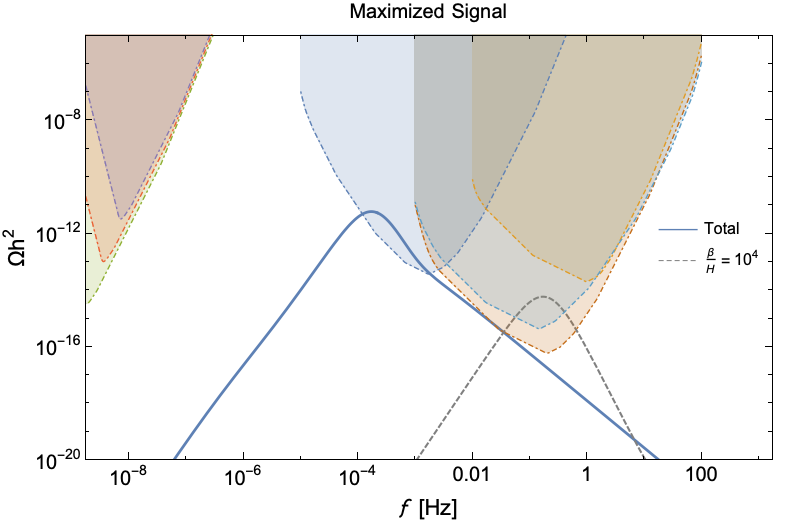
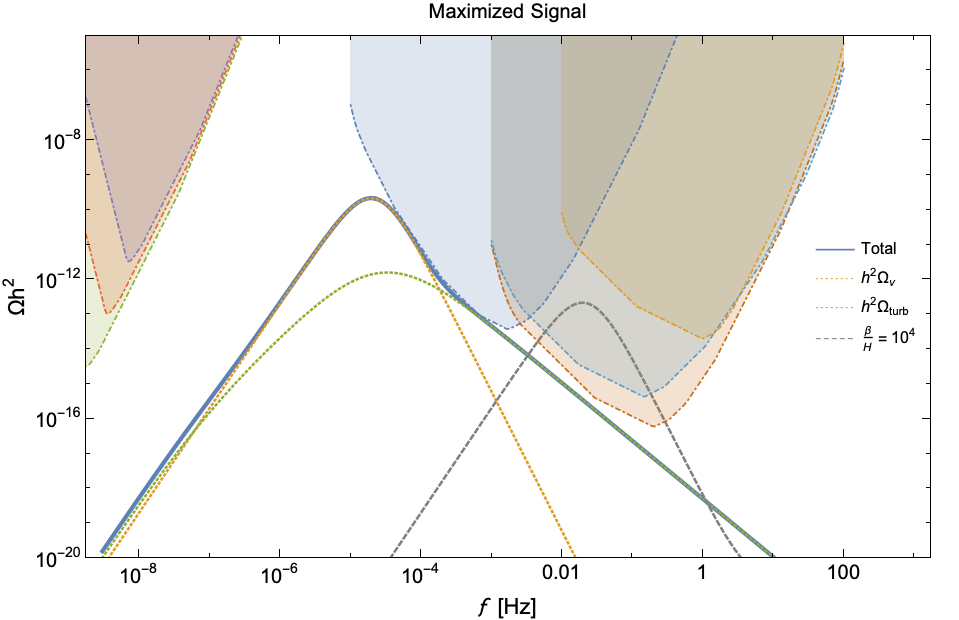
new max plot

diff --git a/gwnnDraft02.tex b/gwnnDraft02.tex
@@ -659,7 +659,7 @@ h^2\Omega_{\textrm{GW}} \approx  h^2\Omega_{v} + h^2\Omega_{turb}.
 \includegraphics[width=.45\textwidth]{FiveSW.png} 
 \end{minipage}
 \hfill
-\caption{ Gravitational wave spectral energy density for the various scenarios found in Tab.~(\ref{tab:cases}).  All contributions are assumed to be from a non-runaway phase transition with terminal velocity $v = 0.95$. The colored solid lines use $\beta/H  = 10$ where as the dashed gray line is the total contribution of all sectors for $\beta/H  = 10^4$ . The shaded curves are the same as Fig.~\ref{fig::Nnatural}. In contrast to the runaway case, most scenarios evade the projected sensistivies of future experiments and therefore is the less optimal situation }
+\caption{ Gravitational wave spectral energy density for the various scenarios found in Tab.~(\ref{tab:cases}).  All contributions are assumed to be from a non-runaway phase transition with terminal velocity $v = 0.95$. The colored solid lines use $\beta/H  = 10$ where as the dashed gray line is the total contribution of all sectors for $\beta/H  = 10^4$ . The top left figure shows the individua sound wave and MHD contributions.  The shaded curves are the same as Fig.~\ref{fig::Nnatural}. In contrast to the runaway case, most scenarios evade the projected sensistivies of future experiments and therefore is the less optimal situation }
 \label{fig:Haasw}
 \end{figure*}
 
